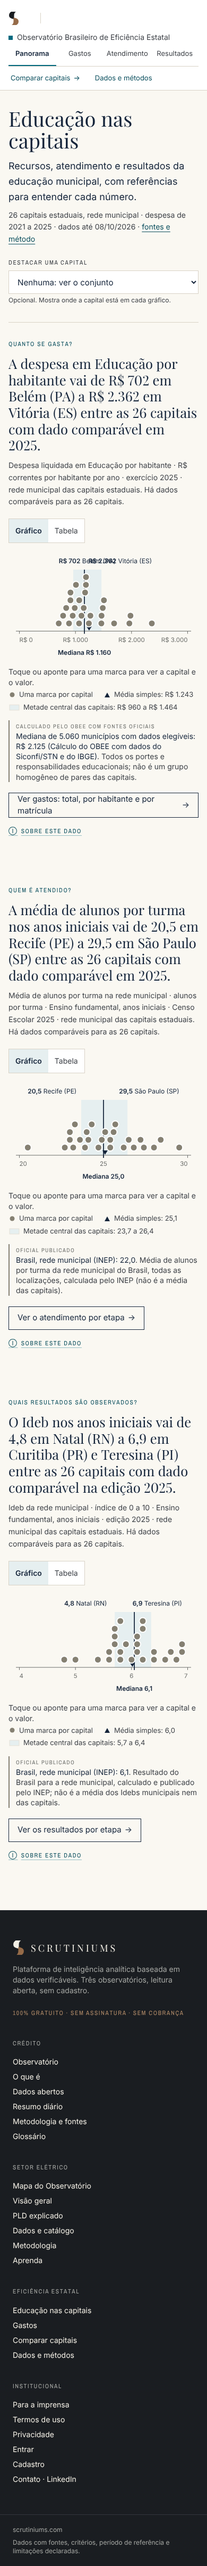
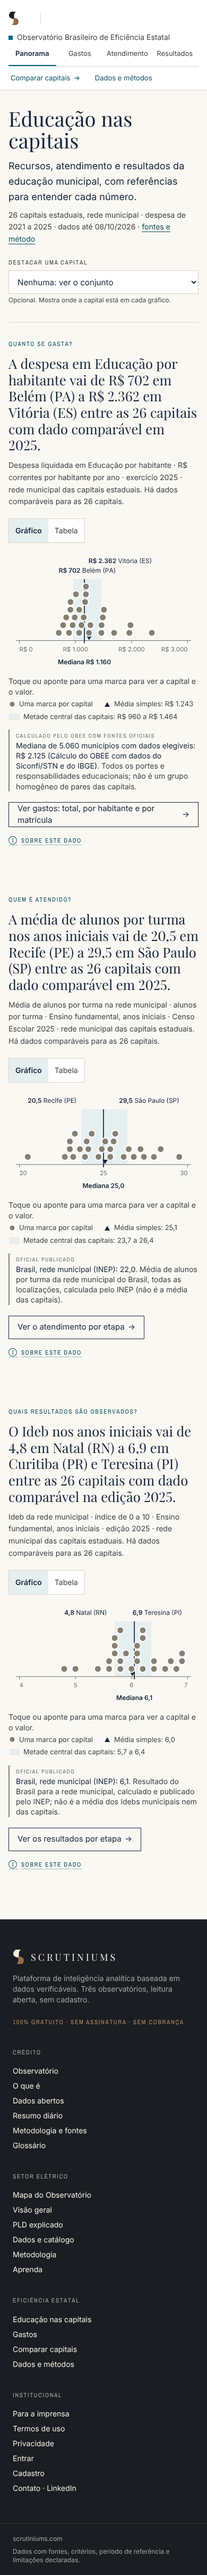
redesenho: capturas depois e medidas finais da verificação
Claude-Session: https://claude.ai/code/session_01VePKWxFNRcWLBnDHi5N7Dd

Changed region(s): [[0.0308, 0.0311, 0.9538, 0.9647], [0.9231, 0.4668, 0.9538, 0.4979], [0.8923, 0.6846, 0.9231, 0.7158]]

diff --git a/docs/obee/REDESENHO_EDITORIAL.md b/docs/obee/REDESENHO_EDITORIAL.md
@@ -36,7 +36,7 @@ Navegação persistente, igual no computador e no celular: Panorama, Gastos, Ate
 | "Passaporte" | "Sobre este dado" (a ficha de 16 campos permanece) |
 | Avisos repetidos | Uma ressalva por número; a primeira frase da ressalva material fica à vista, o resto abre por clique |
 
-Medida de tamanho (Chromium, 08/10/2026, build de produção): a página anterior media **24.851 px** de altura em 1440 px de largura e **43.231 px** em 390 px; o panorama novo mede **3.111 px** em 1440 px (2.748 px até o rodapé) e **4.820 px** em 390 px (3.588 px até o rodapé). O HTML do panorama pesa 138 kB; o da página anterior, cerca de 1,9 MB.
+Medida de tamanho (Chromium, 08/10/2026, build de produção): a página anterior media **24.851 px** de altura em 1440 px de largura e **43.231 px** em 390 px; o panorama novo mede **3.111 px** em 1440 px (2.748 px até o rodapé) e **4.838 px** em 390 px (3.606 px até o rodapé). O HTML do panorama pesa 138 kB; o da página anterior, cerca de 1,9 MB.
 
 ## 4. Frases factuais e linguagem
 
